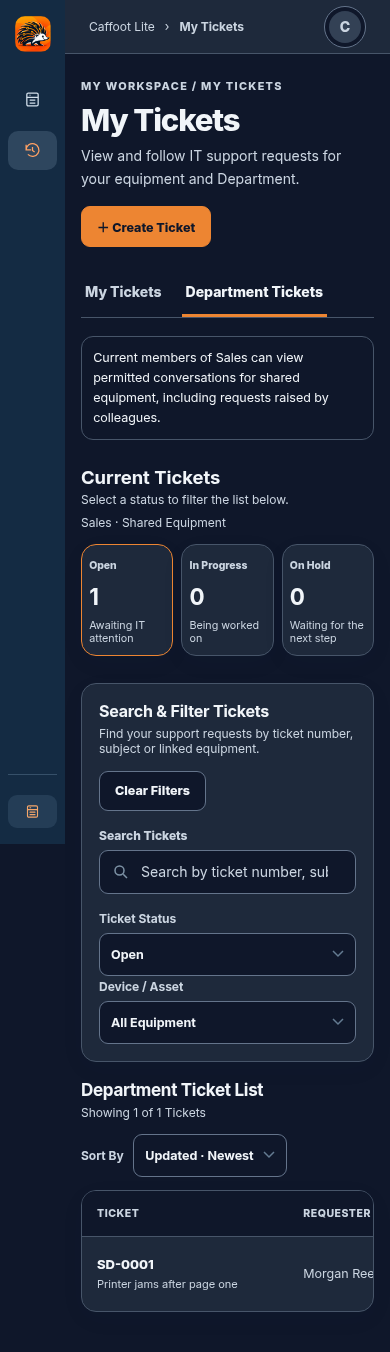
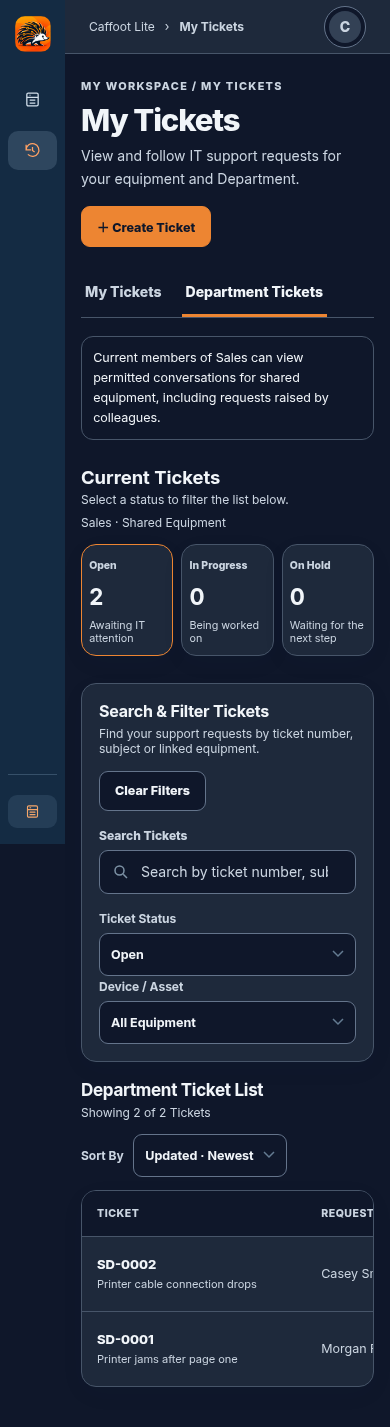
Document accessory ticket privacy and capture shared equipment evidence

diff --git a/docs/how-tos/features-and-instructions/v2.2-draft/Legacy-Import-and-Docker-Upgrade.md b/docs/how-tos/features-and-instructions/v2.2-draft/Legacy-Import-and-Docker-Upgrade.md
@@ -66,23 +66,29 @@ The Stage 6.2 rehearsal used published v2.1 schema 10 and reached v2.2 schema 28
 
 Before trying the schema 29 review build, stop the schema 28 review installation and archive its complete configured `/data` volume. Record the matching image identifier and keep the archive separate from the copy you upgrade. To roll back, restore that stopped archive into a fresh volume and start the recorded schema 28 image against it. See [Back Up A Complete Installation](#back-up-a-complete-installation) and the [Stage 6.3 recovery evidence](../../../development-handovers/evidence/stage-6-3/README.md). The review procedure below applies to an authorised isolated installation. Keep the v2.1 production instance on its published version until a release and deployment have been approved.
 
+### Historical Associated Equipment Tickets
+
+After the Stage 6.4 correction, authorised IT can still open historical associated accessory tickets in **IT → Service Desk** with the existing Service Desk and IT Assets permissions. When the original employee audience cannot be verified, those tickets and their files are available only to authorised IT. This covers earlier tickets raised against issues that have since been explicitly associated with a Device. Existing ticket numbers, replies, attachments and audit records are retained.
+
+During upgrade checks, sign in as a representative Staff Member and confirm that a saved link to a restricted historical ticket is unavailable. Confirm the same ticket still opens for an authorised technician. If the equipment still needs support, an eligible employee can open **My Equipment → Report A Problem** and submit a new ticket after reading the shared-equipment warning. Standalone IT Asset and canonical Device tickets retain their existing access rules. [Ticket privacy and custody](Service-Desk-Administration.md#what-happens-to-service-desk-tickets-when-equipment-changes-hands)
+
 ### Make A Complete Pre-Upgrade Backup
 
-Follow [Back up a complete installation](#back-up-a-complete-installation) while the source is on its original image, published v2.1 with schema 10 or the authorised v2.2 review build with schema 28. Test restoring the backup with that matching image before proceeding. Keep the verified snapshot and image for rollback.
+Follow [Back up a complete installation](#back-up-a-complete-installation) while the source is on its original image, published v2.1 with schema 10 or an earlier authorised v2.2 review build. Test restoring the backup with that matching image before proceeding. Keep the verified snapshot and image for rollback, including when both review builds use schema 29.
 
 ### Start The Review Image And Check The Result
 
 1. Use a separate disposable installation and a consistent copy of the stopped source `/data`. Confirm that the test stack cannot see your production mount. Use the authorised v2.2 review image for the intended revision and architecture.
 2. Keep the test stack's existing `/data` mapping and working HTTPS/network settings when you replace the image. For Portainer, edit the existing test stack and replace its image reference. For Compose, change the image in the existing test definition and recreate the service in the same project. Confirm the volume mapping before starting. The application applies the pending migrations on startup.
 3. Check that the instance becomes healthy and that it still presents the trusted certificate. Sign in using an authorised test account. On the v2.1 upgrade, earlier migrations end existing sessions and revoke affected outstanding email proofs. Legacy Readers and other active accounts moved to **IT Staff** may need to enrol an authenticator, even if their inventory access remains **No Access**. Existing authenticator details are retained. See [Roles, Section Permissions And MFA](Roles-Section-Permissions-and-MFA.md#what-an-existing-account-may-show-after-upgrade).
-4. Verify representative Devices, linked IPAM and Racks records, preferences and Audit Trail entries. Check a saved profile, existing Read and Edit access, Administrator sign-in and private email settings. For a populated schema 28 source, compare Department assignments, original stock recipients and quantities, associated equipment, ticket visibility and attachments. The upgrade maintains configured legacy access while applying the new MFA requirements.
+4. Verify representative Devices, linked IPAM and Racks records, preferences and Audit Trail entries. Check a saved profile, existing Read and Edit access, Administrator sign-in and private email settings. For a populated v2.2 review source, compare Department assignments, original stock recipients and quantities, associated equipment, ticket visibility and attachments. The upgrade maintains configured section permissions while applying the new MFA requirements and the historical accessory ticket restriction above.
 5. Recreate the isolated container again against the same mount and repeat the health, sign-in and sample record checks. The rehearsal also checked SQLite integrity, foreign keys and unchanged rows on repeat startup. If startup fails, preserve the stopped copy and review the container log before trying again.
 
 ### Roll Back Using The Complete Pre-Upgrade Backup
 
 1. Stop the upgraded container. If you need its data for investigation or later recovery, back up its complete stopped mount separately and label that copy with its v2.2 image and schema.
 2. [Restore the complete pre-upgrade snapshot](#restore-a-complete-installation) into a clean target using the matching source image and saved stack settings. Use the stopped backup with that image, because the upgraded volume is on schema 29.
-3. Check trusted HTTPS, MFA sign-in, representative inventory, profiles, permissions and private settings. If your source was schema 28, also check Staff assignments, stock and restricted Service Desk access. Rollback restores the state captured in the backup. Any later changes are absent from that recovery.
+3. Check trusted HTTPS, MFA sign-in, representative inventory, profiles, permissions and private settings. For a v2.2 review source, also check Staff assignments, stock and restricted Service Desk access. Rollback restores the state captured in the backup. Any later changes are absent from that recovery.
 
 ## Back Up A Complete Installation
 

diff --git a/docs/development-handovers/evidence/stage-6-4/README.md b/docs/development-handovers/evidence/stage-6-4/README.md
@@ -4,9 +4,11 @@
 
 The review starts from `957969ba1b44465472765e47f91117ca7c87d177` on `milestone-1` (schema 28). The application source for the local schema 29 Docker rehearsal and the original Chromium capture batch is [`57ca30e15f2d61d2bb4689c6ca1a3600973df3c7`](https://github.com/Caffoot/Caffoot-Lite/commit/57ca30e15f2d61d2bb4689c6ca1a3600973df3c7). The four refreshed Current Assignment captures use [`7cfe63a344ab9088194e899f88e2d837342e585e`](https://github.com/Caffoot/Caffoot-Lite/commit/7cfe63a344ab9088194e899f88e2d837342e585e). The mobile captures scroll to the existing Assignment History card so both subheadings are visible.
 
+The accessory custody follow-up refreshed Department Details Equipment, My Equipment and Department Tickets and added the accessory confidentiality warning. All 16 captures in that batch use [`e3676087588e1f5c9f96f1a1012ee8841ff918ea`](https://github.com/Caffoot/Caffoot-Lite/commit/e3676087588e1f5c9f96f1a1012ee8841ff918ea).
+
 ## Application Screenshots
 
-The captures use the running Caffoot Lite application over loopback HTTPS in Chromium 156.0.8078.79. The test seeds fictional accounts, Departments, Devices and a printer ticket raised before Sales shares the Device. It uses the real UI for initial assignment, Department changes, Department Details, My Equipment, Department Tickets and Create Ticket. Desktop viewports are 1440 × 960 and mobile viewports are 390 × 844. Department Tickets uses full-page capture so the ticket list appears on mobile. [Capture manifest with source and image hashes](capture-manifest.json) · [Chromium test](../../../../tests/shared-devices-interface.cjs) · [Frozen design references](https://github.com/Caffoot/Caffoot-Lite/issues/431#issuecomment-7129171072)
+The captures use the running Caffoot Lite application over loopback HTTPS in Chromium 156.0.8078.79. The test seeds fictional accounts, Departments, Devices and a printer ticket raised before Sales shares the Device. The accessory follow-up includes a USB cable originally issued to Accounts and explicitly associated with that printer. It uses the real UI to raise a ticket for the cable as a Sales employee. Desktop viewports are 1440 × 960 and mobile viewports are 390 × 844. Department Tickets uses full-page capture so the ticket list appears on mobile. [Capture manifest with source and image hashes](capture-manifest.json) · [Chromium test](../../../../tests/shared-devices-interface.cjs) · [Frozen design references](https://github.com/Caffoot/Caffoot-Lite/issues/431#issuecomment-7129171072)
 
 | Existing application screen | Desktop light | Desktop dark | Mobile light | Mobile dark |
 | --- | --- | --- | --- | --- |
@@ -17,6 +19,7 @@ The captures use the running Caffoot Lite application over loopback HTTPS in Chr
 | Sales employee My Equipment | [Light](screenshots/my-equipment-desktop-light.png) | [Dark](screenshots/my-equipment-desktop-dark.png) | [Light](screenshots/my-equipment-mobile-light.png) | [Dark](screenshots/my-equipment-mobile-dark.png) |
 | Department Tickets after Sales joins | [Light](screenshots/department-tickets-desktop-light.png) | [Dark](screenshots/department-tickets-desktop-dark.png) | [Light](screenshots/department-tickets-mobile-light.png) | [Dark](screenshots/department-tickets-mobile-dark.png) |
 | Create Ticket warning via Report A Problem | [Light](screenshots/ticket-confidentiality-desktop-light.png) | [Dark](screenshots/ticket-confidentiality-desktop-dark.png) | [Light](screenshots/ticket-confidentiality-mobile-light.png) | [Dark](screenshots/ticket-confidentiality-mobile-dark.png) |
+| Associated accessory Create Ticket warning | [Light](screenshots/accessory-confidentiality-desktop-light.png) | [Dark](screenshots/accessory-confidentiality-desktop-dark.png) | [Light](screenshots/accessory-confidentiality-mobile-light.png) | [Dark](screenshots/accessory-confidentiality-mobile-dark.png) |
 
 ## Focused Checks
 
@@ -38,6 +41,8 @@ node tests/shared-devices-interface.cjs
 ```
 
 The focused follow-up Chromium check verified both history headings, table columns and record order. The four affected captures were refreshed. All 36 focused backend tests passed, including the existing exact role migration assertion. Schema 29 skips empty inserts that would otherwise initialise zero-valued SQLite sequence entries, while preserving the original high-water marks. [Owner visual correction](https://github.com/Caffoot/Caffoot-Lite/pull/447#issuecomment-7130128114)
+
+The accessory follow-up passed 72 focused backend tests. Live HTTP and loopback SMTP covered original Department and custody stock recipients, historical IT-only tickets, current-custody ticket access, replies, direct attachments, queued delivery after removal and re-addition, and the effect of stock return. Standalone assets and canonical Device tickets served as controls. The focused Chromium run checked both accessory ticket entry points and captured all four affected views. [Live regression tests](../../../../tests/test_associated_ticket_custody.py) · [Accessory custody decision](https://github.com/Caffoot/Caffoot-Lite/issues/431#issuecomment-7131158752) · [Historical privacy decision](https://github.com/Caffoot/Caffoot-Lite/issues/431#issuecomment-7131342057)
 
 ## Remaining Acceptance
 

diff --git a/docs/how-tos/features-and-instructions/v2.2-draft/Service-Desk-Administration.md b/docs/how-tos/features-and-instructions/v2.2-draft/Service-Desk-Administration.md
@@ -147,7 +147,7 @@ Up to 10 MB is allowed per file and 100 MB retained per ticket. If two technicia
 
 Caffoot Lite records the equipment and its assignment when a ticket is raised. The original Device or IT Asset keeps its identity as it changes hands. Authorised IT can still review the ticket, its replies, attachments and attributed history under the equipment's section permissions.
 
-After a physical transfer, **My Tickets** shows eligible tickets from each employee’s current personal assignment. **Department Tickets** uses live Staff membership and the Departments assigned to the Device’s current physical custody period. IT-created and employee-created Device tickets follow the same rule. The ticket number and all original records remain in **IT → Service Desk** for technicians with access.
+After a physical transfer, **My Tickets** shows eligible tickets from each employee’s current personal assignment. **Department Tickets** uses live Staff membership and the Departments assigned to the Device’s current physical custody period. IT-created and employee-created Device tickets and new associated accessory tickets follow the same rule. An associated accessory ticket also requires the original accessory issue to remain in custody. The ticket number and all original records remain in **IT → Service Desk** for technicians with access.
 
 | Change | Worked example |
 | --- | --- |
@@ -157,7 +157,16 @@ After a physical transfer, **My Tickets** shows eligible tickets from each emplo
 | Departments sharing the Device change within one custody period | Accounts and Sales share an office printer. IT adds Finance in **Manage Departments**. Eligible Finance members can see employee-visible conversations and permitted files from earlier in this custody period. Removing Finance revokes that access on the next request. Re-adding Finance restores current-period access. |
 | Department membership changes while the assignment continues | Asha joins Finance while its printer is still assigned to Finance. She can see employee-visible tickets from that same assignment. A colleague who leaves Finance loses the access they had through its membership. |
 
-The employee Create Ticket warning applies to every Department-assigned Device. Check the warning text and tell employees to keep confidential, personal and sensitive information out of shared Device requests. Existing email events recheck membership, custody, account eligibility and verified addresses at dispatch. Sharing changes send no historical notifications. Internal notes and the attachments to them stay within IT. If a previously returned Device goes back to the same person or Department, tickets from that earlier equipment assignment stay with IT. A quantity-stock correction that restores the outstanding balance after a full return follows the same privacy boundary. The earlier ticket stays with IT and an eligible current holder may raise a new one. [Device Assignments And My Equipment](Device-Assignments-and-My-Equipment.md) · [Correct Movement](IT-Assets-Correct-Movement.md)
+The employee **Create Ticket** warning applies to every Department-assigned Device and its explicitly associated outstanding accessories. Check the warning text and tell employees to keep confidential, personal and sensitive information out of shared Device requests. Existing email events recheck membership, custody, account eligibility and verified addresses at dispatch. Sharing changes send no historical notifications. Internal notes and the attachments to them stay within IT. If a previously returned Device goes back to the same person or Department, tickets from that earlier equipment assignment stay with IT. A quantity-stock correction that restores the outstanding balance after a full return follows the same privacy boundary. The earlier ticket stays with IT and an eligible current holder may raise a new one. [Device Assignments And My Equipment](Device-Assignments-and-My-Equipment.md) · [Correct Movement](IT-Assets-Correct-Movement.md)
+
+### Review A Historical Accessory Ticket
+
+1. With **Service Desk Read**, **IT Assets Read** and IT Assets enabled, open **IT → Service Desk**. Look up the original ticket number and check its issue, updates and history.
+2. If the issue is associated with a Device and the ticket predates the approved warning or the association, employee access requires a verifiable original audience. Where that audience cannot be established, the ticket and permitted files are available only to authorised IT.
+3. Check current equipment in **Device Details → Associated Equipment**. If the problem continues, an eligible employee can use **My Equipment → Report A Problem**, read the warning and raise a new request. The new ticket’s employee audience follows the Device’s current Departments.
+4. Check removals with a test employee account. Opening, replying, downloading and queued notification delivery all recheck the ticket’s audience. Adding a Department restores access to eligible current-period tickets created with the new rule.
+
+[Historical access on upgrade](Legacy-Import-and-Docker-Upgrade.md#historical-associated-equipment-tickets)
 
 ## Check Affected Software And Category Corrections
 

diff --git a/docs/how-tos/features-and-instructions/v2.2-draft/Departments-and-Shared-Equipment.md b/docs/how-tos/features-and-instructions/v2.2-draft/Departments-and-Shared-Equipment.md
@@ -63,7 +63,7 @@ Moving someone from Accounts to Sales changes their Department-shared equipment 
 | --- | --- |
 | Overview | Name, status, independent structure and New Membership availability. Staff, Shared Devices and IT Assets summaries require independent access. **Not Available** is not a zero count. |
 | Staff Members | Current members, including inactive Staff whose membership is retained. Change membership through the Staff form. |
-| Equipment | Devices shared with the Department and outstanding IT Assets issued to it, followed by recorded equipment history. A Device shared with Sales and Accounts appears in both Departments and opens the same inventory record. Personally assigned Staff equipment is excluded. |
+| Equipment | Devices shared with the Department and outstanding IT Assets issued to it, followed by recorded equipment history. A Device shared with Sales and Accounts appears in both Departments and opens the same inventory record. Its outstanding explicitly associated accessories appear with the same current Departments when you have Devices and IT Assets access. Personally assigned Staff equipment is excluded. |
 | History | Available recorded Department changes and authorised equipment activity, with dates and responsible accounts. Visibility depends on access to the existing history/equipment services. An empty state does not prove no changes have occurred. |
 
 The IT Assets summary counts outstanding issued quantities; it is not stock physically held by IT. Equipment dates and history remain on their original records, rather than being copied into a separate Department inventory.
@@ -78,7 +78,7 @@ If a panel could not load, reopen Details to retry. Check your access before int
 
 Open **Device Details → Assigned To → Manage Departments** with **Devices Edit**. For example, if Finance joins Accounts in using the same printer, tick Finance, leave Accounts selected and choose **Save Changes**. Choose **Cancel** to keep the saved Departments. Use the physical return or handover workflow when the Device actually changes hands.
 
-A saved addition gives eligible Finance members access to employee-visible tickets from the current custody period, including earlier reports. Removing Finance ends that access on the next request. Previous custody-period tickets remain restricted to authorised IT. If Finance is later added back during the same custody period, current-period access resumes. [Manage Departments](Device-Assignments-and-My-Equipment.md#change-the-departments-sharing-a-device) · [Ticket confidentiality](Service-Desk-Tickets.md#shared-device-ticket-confidentiality)
+A saved addition gives eligible Finance members access to employee-visible Device tickets and new associated accessory tickets from the current custody period. Earlier accessory tickets with unverifiable audiences stay with authorised IT. Removing Finance ends that access on the next request. Previous custody-period tickets remain restricted to authorised IT. If Finance is later added back during the same custody period, current-period access resumes. [Manage Departments](Device-Assignments-and-My-Equipment.md#change-the-departments-sharing-a-device) · [Ticket confidentiality](Service-Desk-Tickets.md#shared-device-ticket-confidentiality)
 
 ![Sales Department Equipment listing the original Main Office Printer](../../../development-handovers/evidence/stage-6-4/screenshots/department-equipment-desktop-light.png)
 

diff --git a/docs/how-tos/features-and-instructions/v2.2-draft/Service-Desk-Tickets.md b/docs/how-tos/features-and-instructions/v2.2-draft/Service-Desk-Tickets.md
@@ -32,15 +32,21 @@ Keep the reference shown after you submit. A new personal or Department request 
 
 ## Shared Device Ticket Confidentiality
 
-The warning appears when you select a Device assigned to a Department, even if only one Department currently shares it. It also appears when **My Equipment → Report A Problem** preselects that Device. The warning updates if you change the equipment.
+The warning appears when you select a Department-assigned Device or an accessory explicitly associated with its current custody. It applies even when only one Department uses the equipment. It also appears when **My Equipment → Report A Problem** preselects either item and updates when you change the selection.
 
 Keep confidential, personal and sensitive information out of the subject, description, replies and files. For example, report *the Main Office Printer jams after page one* without attaching a print job that contains personnel records. If Accounts shares that printer with Sales later in the same custody period, eligible Sales members can open the earlier ticket, employee-visible replies and permitted files. If Sales is removed, its access ends on the next request. Re-adding Sales during that custody period restores access.
 
-A physical return, reassignment, write-off or reissue ends the previous employee audience. Authorised IT can still review the previous ticket. Internal IT notes and their attachments remain in the technician workspace. [Assignment and ticket privacy](Service-Desk-Administration.md#what-happens-to-service-desk-tickets-when-equipment-changes-hands)
+The Device’s current Departments can read new associated accessory tickets raised by eligible employees or by IT. For example, Sales can follow a new ticket about the USB cable associated with the printer once its Department is added to the same custody period. An earlier accessory ticket may be available only to authorised IT if its original audience cannot be verified. Ask IT to look up the original ticket number if you need help with it.
+
+A physical return, reassignment, write-off or reissue ends the previous employee audience. Fully returning an accessory issue also ends employee access to its tickets. Authorised IT can still review the previous ticket. Internal IT notes and their attachments remain in the technician workspace. [Assignment and ticket privacy](Service-Desk-Administration.md#what-happens-to-service-desk-tickets-when-equipment-changes-hands)
 
 ![Mobile Create Ticket for the Main Office Printer with the confidentiality warning above Subject](../../../development-handovers/evidence/stage-6-4/screenshots/ticket-confidentiality-mobile-dark.png)
 
 *The warning appears before Subject and Description, including when Report A Problem preselects the Device.* [Capture provenance](../../../development-handovers/evidence/stage-6-4/README.md)
+
+![Create Ticket showing the confidentiality warning for the printer’s linked USB cable.](../../../development-handovers/evidence/stage-6-4/screenshots/accessory-confidentiality-mobile-dark.png)
+
+*Report A Problem preselects the accessory and shows who may see its reports and files.* [Capture provenance](../../../development-handovers/evidence/stage-6-4/README.md)
 
 ## Find And Review Your Tickets
 

diff --git a/docs/how-tos/features-and-instructions/v2.2-draft/Device-Assignments-and-My-Equipment.md b/docs/how-tos/features-and-instructions/v2.2-draft/Device-Assignments-and-My-Equipment.md
@@ -134,11 +134,11 @@ My Equipment is for a person signing in with a login linked to their Staff recor
 3. Read **Assigned to Me** for Devices and outstanding IT Assets assigned directly to you.
 4. Read **Shared with My Department** for equipment assigned to your current Department. Viewing it does not make you the personal holder.
 5. Report an incorrect item or quantity to an authorised IT user, using its name and the relevant facts. This personal screen has no Issue, Return, Reassign or Write Off controls.
-6. To ask IT for help with listed equipment, select **Report A Problem** on the item. Confirm the preselected **Device / Asset**. On a Department Device, read the confidentiality warning before completing **Subject**, **Description** or adding a file. Complete **Ticket Category** and the required fields. Add a permitted file if helpful. Select **Create Ticket** to save, or **Cancel** to return to My Equipment. Follow the saved reference in **My Tickets** for personal equipment or **Department Tickets** for shared equipment. [Full ticket instructions](Service-Desk-Tickets.md#raise-a-support-request)
+6. To ask IT for help with listed equipment, select **Report A Problem** on the item. Confirm the preselected **Device / Asset**. On a Department Device or its associated accessory, read the confidentiality warning before completing **Subject**, **Description** or adding a file. Complete **Ticket Category** and the required fields. Add a permitted file if helpful. Select **Create Ticket** to save, or **Cancel** to return to My Equipment. Follow the saved reference in **My Tickets** for personal equipment or **Department Tickets** for shared equipment. [Full ticket instructions](Service-Desk-Tickets.md#raise-a-support-request)
 
 ![Sales employee My Equipment showing a personal laptop and shared printers in separate sections](../../../development-handovers/evidence/stage-6-4/screenshots/my-equipment-desktop-light.png)
 
-*The same Main Office Printer appears in each eligible Department member’s shared list.* [Capture provenance](../../../development-handovers/evidence/stage-6-4/README.md)
+*The Main Office Printer and its outstanding associated USB cable appear in each eligible Department member’s shared list.* [Capture provenance](../../../development-handovers/evidence/stage-6-4/README.md)
 
 ![My Equipment with Report A Problem on personal and Department-shared Devices.](../../../development-handovers/evidence/employee-service-desk/my-equipment-desktop-light.png)
 

diff --git a/docs/development-handovers/milestone-01.md b/docs/development-handovers/milestone-01.md
@@ -6,6 +6,8 @@ The Stage 6.4 review branch starts from `957969ba1b44465472765e47f91117ca7c87d17
 
 The branch carries the focused test results, genuine Chromium screenshots and the stopped-volume rehearsal, including schema 10 and schema 28 upgrades to 29 and restoration with the matching schema 28 image. [Evidence and limits](evidence/stage-6-4/README.md) · [Draft v2.2 guides](../how-tos/features-and-instructions/v2.2-draft/README.md)
 
+The associated equipment correction keeps current accessory views with Device custody. New accessory tickets record their explicit association when created and use current custody and outstanding stock checks. Historical accessory tickets with unverifiable employee audiences remain available to authorised IT, including their original replies, attachments and audit history. The correction uses schema 29’s existing ticket creation event. [Owner approval](https://github.com/Caffoot/Caffoot-Lite/issues/431#issuecomment-7131158752) · [Privacy fallback](https://github.com/Caffoot/Caffoot-Lite/issues/431#issuecomment-7131342057)
+
 Independent code review, owner visual acceptance, final-head CI and separate merge approval are pending. Stages 6.5–6.8 and the previously deferred native Raspberry Pi, Safari, Portainer, private-data and manual acceptance continue under the milestone. [Milestone #351](https://github.com/Caffoot/Caffoot-Lite/issues/351)
 
 ## Historical Stage 6.3 Complete-Volume Recovery — 24 November 2026

diff --git a/docs/how-tos/features-and-instructions/v2.2-draft/Associated-Equipment.md b/docs/how-tos/features-and-instructions/v2.2-draft/Associated-Equipment.md
@@ -51,6 +51,12 @@ The entire outstanding original issue is linked. If three mice remain outstandin
 
 In both routes, **Cancel** abandons unsaved work; a discard prompt lets you keep editing. A stale or failed save leaves existing records unchanged. Reload after a holder or stock change and select the equipment again using current information.
 
+## Check The Accessory’s Current Department
+
+With **Devices Read** and **IT Assets Read**, open the Device’s **Assigned To** tab to check the current Departments. Then open **Associated Equipment** to confirm the original issue and outstanding quantity. The issue’s recorded **Issued To** value remains part of the stock history.
+
+For example, Accounts originally received a printer cable. When Sales shares the printer and Accounts is removed, Sales can find the cable in **Department Details → Equipment** and eligible Sales members can see it in **My Equipment**. The association, outstanding quantity and original Accounts issue stay on record. For a continuing problem, use **Report A Problem** on the accessory and read the warning before reporting details. [Department ticket confidentiality](Service-Desk-Tickets.md#shared-device-ticket-confidentiality)
+
 ## Resolve Returned, Damaged Or Missing Accessories
 
 Use the equipment's real condition and whereabouts to choose the action:
